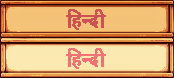
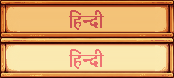
Refine complex-script button typography

Changed region(s): [[0.3736, 0.6154, 0.6322, 0.8718], [0.3736, 0.1026, 0.6034, 0.359], [0.431, 0.359, 0.4598, 0.3846]]

diff --git a/Tests/StardewTranslationInstallerTests/InstallerCoreTests.swift b/Tests/StardewTranslationInstallerTests/InstallerCoreTests.swift
@@ -322,17 +322,17 @@ struct InstallerCoreTests {
[21 lines of base64/hex data omitted]
         ]
@@ -367,7 +367,7 @@ struct InstallerCoreTests {
         try expect(try pngDimensions(hindiButtonPath) == (174, 78))
         try expect(
             try DependencyInstaller.sha256(of: payload.appendingPathComponent(hindiButtonPath))
[2 lines of base64/hex data omitted]
         )
         let hindiTitlePath = "assets/title/TitleButtons-hindi.png"
         try expect(try pngDimensions(hindiTitlePath) == (400, 655))
@@ -445,7 +445,7 @@ struct InstallerCoreTests {
         try expect(
             try DependencyInstaller.sha256(
                 of: payload.appendingPathComponent("assets/button-persian.png")
[2 lines of base64/hex data omitted]
         )
         try expect(
             try DependencyInstaller.sha256(
@@ -458,7 +458,7 @@ struct InstallerCoreTests {
         try expect(
             try DependencyInstaller.sha256(
                 of: payload.appendingPathComponent("assets/button-arabic.png")
[2 lines of base64/hex data omitted]
         )
         try expect(
             try DependencyInstaller.sha256(
@@ -486,7 +486,7 @@ struct InstallerCoreTests {
         try expect(
             try DependencyInstaller.sha256(
                 of: payload.appendingPathComponent("assets/button-thai.png")
[2 lines of base64/hex data omitted]
         )
         try expect(
             try DependencyInstaller.sha256(

diff --git a/Scripts/render-shaped-text.swift b/Scripts/render-shaped-text.swift
@@ -30,7 +30,7 @@ func alphaBounds(of bitmap: NSBitmapImageRep) -> CGRect? {
 }
 
 do {
-    guard (CommandLine.arguments.count == 5 || CommandLine.arguments.count == 6),
+    guard (5...7).contains(CommandLine.arguments.count),
           let size = Double(CommandLine.arguments[3]) else { throw RenderError.usage }
     let fontURL = URL(fileURLWithPath: CommandLine.arguments[1])
     let text = CommandLine.arguments[2]
@@ -39,12 +39,16 @@ do {
     _ = CTFontManagerRegisterFontsForURL(fontURL as CFURL, .process, &registrationError)
     guard let descriptors = CTFontManagerCreateFontDescriptorsFromURL(fontURL as CFURL) as? [CTFontDescriptor]
     else { throw RenderError.font }
-    let descriptorIndex = CommandLine.arguments.count == 6
+    let requestedDescriptorIndex = CommandLine.arguments.count >= 6
         ? Int(CommandLine.arguments[5])
         : descriptors.indices.last
-    guard let descriptorIndex,
-          descriptors.indices.contains(descriptorIndex) else { throw RenderError.font }
-    let descriptor = descriptors[descriptorIndex]
+    guard let requestedDescriptorIndex,
+          descriptors.indices.contains(requestedDescriptorIndex) else { throw RenderError.font }
+    let descriptor = descriptors[requestedDescriptorIndex]
+    let alphaThreshold = CommandLine.arguments.count == 7
+        ? Int(CommandLine.arguments[6])
+        : 96
+    guard let alphaThreshold, (0...255).contains(alphaThreshold) else { throw RenderError.usage }
     guard
           let fontName = CTFontDescriptorCopyAttribute(descriptor, kCTFontNameAttribute) as? String,
           let font = NSFont(name: fontName, size: size) else { throw RenderError.font }
@@ -83,7 +87,7 @@ do {
     for y in 0..<result.pixelsHigh {
         for x in 0..<result.pixelsWide {
             let offset = y * result.bytesPerRow + x * bytesPerPixel
-            let opaque = pixels[offset + 3] >= 96
+            let opaque = Int(pixels[offset + 3]) >= alphaThreshold
             pixels[offset] = opaque ? 255 : 0
             pixels[offset + 1] = opaque ? 255 : 0
             pixels[offset + 2] = opaque ? 255 : 0
@@ -95,6 +99,6 @@ do {
     }
     try data.write(to: outputURL)
 } catch {
-    fputs("Usage: render-shaped-text <font-file> <text> <size> <output.png> [font-index]\n", stderr)
+    fputs("Usage: render-shaped-text <font-file> <text> <size> <output.png> [font-index] [alpha-threshold]\n", stderr)
     exit(1)
 }

diff --git a/Scripts/generate-language-buttons.py b/Scripts/generate-language-buttons.py
@@ -23,6 +23,7 @@ class LanguageButton:
     max_size: int = 16
     max_width: int = 132
     max_height: int = 17
+    threshold: int = 96
 
 
 ARIAL_BOLD = "/System/Library/Fonts/Supplemental/Arial Bold.ttf"
@@ -36,11 +37,13 @@ BUTTONS = (
     LanguageButton("button-swahili.png", "KISWAHILI", ARIAL_BOLD),
     LanguageButton(
         "button-persian.png", "فارسی", "/System/Library/Fonts/GeezaPro.ttc",
-        font_index=1, shaped=True, max_size=23, max_width=140, max_height=23,
+        font_index=0, shaped=True, max_size=22, max_width=140, max_height=22,
+        threshold=160,
     ),
     LanguageButton(
         "button-arabic.png", "العربية", "/System/Library/Fonts/GeezaPro.ttc",
-        font_index=1, shaped=True, max_size=23, max_width=140, max_height=23,
+        font_index=0, shaped=True, max_size=22, max_width=140, max_height=22,
+        threshold=160,
     ),
     LanguageButton("button-indonesian.png", "BAHASA INDONESIA", ARIAL_BOLD),
     LanguageButton("button-filipino.png", "FILIPINO", ARIAL_BOLD),
@@ -49,11 +52,12 @@ BUTTONS = (
         "button-hindi.png",
         "हिन्दी",
         "/System/Library/Fonts/Supplemental/Devanagari Sangam MN.ttc",
-        font_index=1,
+        font_index=0,
         shaped=True,
-        max_size=23,
+        max_size=22,
         max_width=140,
-        max_height=23,
+        max_height=22,
+        threshold=160,
     ),
     LanguageButton(
         "button-traditional-chinese.png",
@@ -65,18 +69,20 @@ BUTTONS = (
     LanguageButton(
         "button-hebrew.png", "עברית",
         "/System/Library/Fonts/Supplemental/NewPeninimMT.ttc",
-        font_index=3, shaped=True, max_size=22, max_width=140, max_height=22,
+        font_index=0, shaped=True, max_size=21, max_width=140, max_height=21,
+        threshold=160,
     ),
     LanguageButton("button-bulgarian.png", "БЪЛГАРСКИ", ARIAL_BOLD),
     LanguageButton(
         "button-thai.png",
         "ภาษาไทย",
         "/System/Library/Fonts/Supplemental/Thonburi.ttc",
-        font_index=1,
+        font_index=0,
         shaped=True,
-        max_size=23,
+        max_size=22,
         max_width=140,
-        max_height=23,
+        max_height=22,
+        threshold=160,
     ),
     LanguageButton("button-greek.png", "ΕΛΛΗΝΙΚΑ", ARIAL_BOLD),
     LanguageButton("button-czech.png", "ČEŠTINA", ARIAL_BOLD),
@@ -124,11 +130,14 @@ def render_with_pillow(text: str, font_path: Path, size: int, index: int) -> Ima
 
 
 def render_shaped(
-    text: str, font_path: Path, size: int, renderer: Path, index: int
+    text: str, font_path: Path, size: int, renderer: Path, index: int, threshold: int
 ) -> Image.Image:
     with tempfile.NamedTemporaryFile(suffix=".png") as output:
         subprocess.run(
-            [str(renderer), str(font_path), text, str(size), output.name, str(index)],
+            [
+                str(renderer), str(font_path), text, str(size), output.name,
+                str(index), str(threshold),
+            ],
             check=True,
         )
         return Image.open(output.name).convert("RGBA").getchannel("A").copy()
@@ -136,7 +145,9 @@ def render_shaped(
 
 def render_text(spec: LanguageButton, text: str, size: int, renderer: Path) -> Image.Image:
     if spec.shaped:
-        return render_shaped(text, Path(spec.font), size, renderer, spec.font_index)
+        return render_shaped(
+            text, Path(spec.font), size, renderer, spec.font_index, spec.threshold
+        )
     return render_with_pillow(text, Path(spec.font), size, spec.font_index)
 
 
